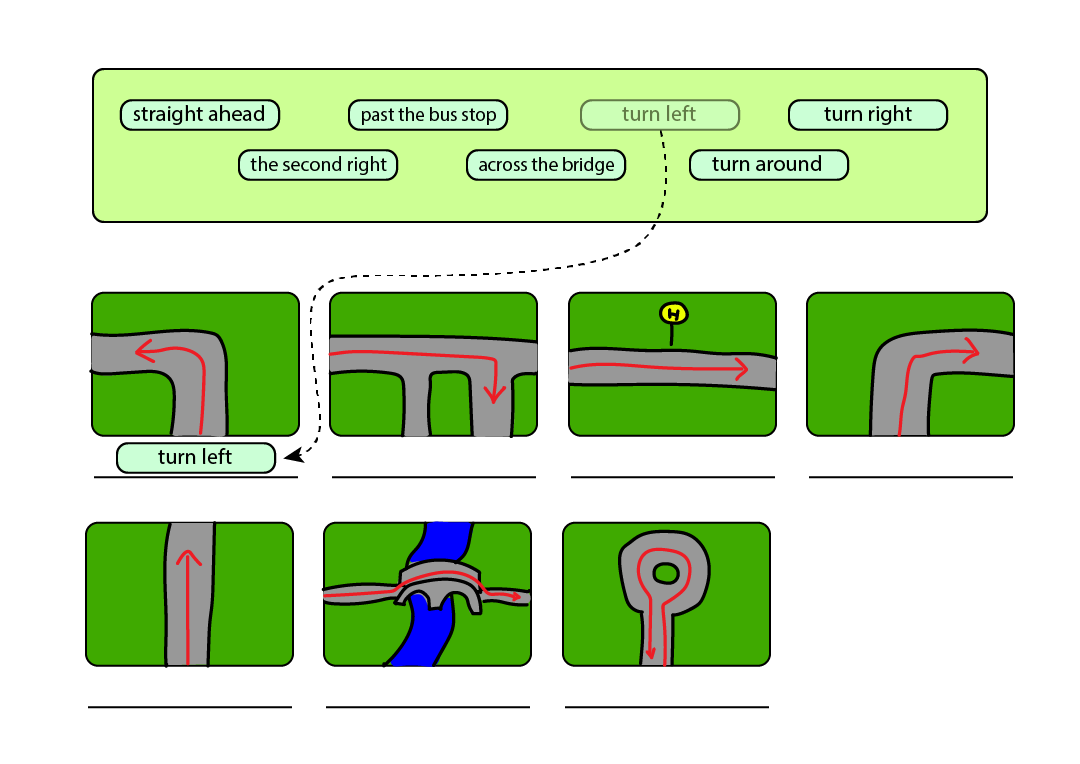
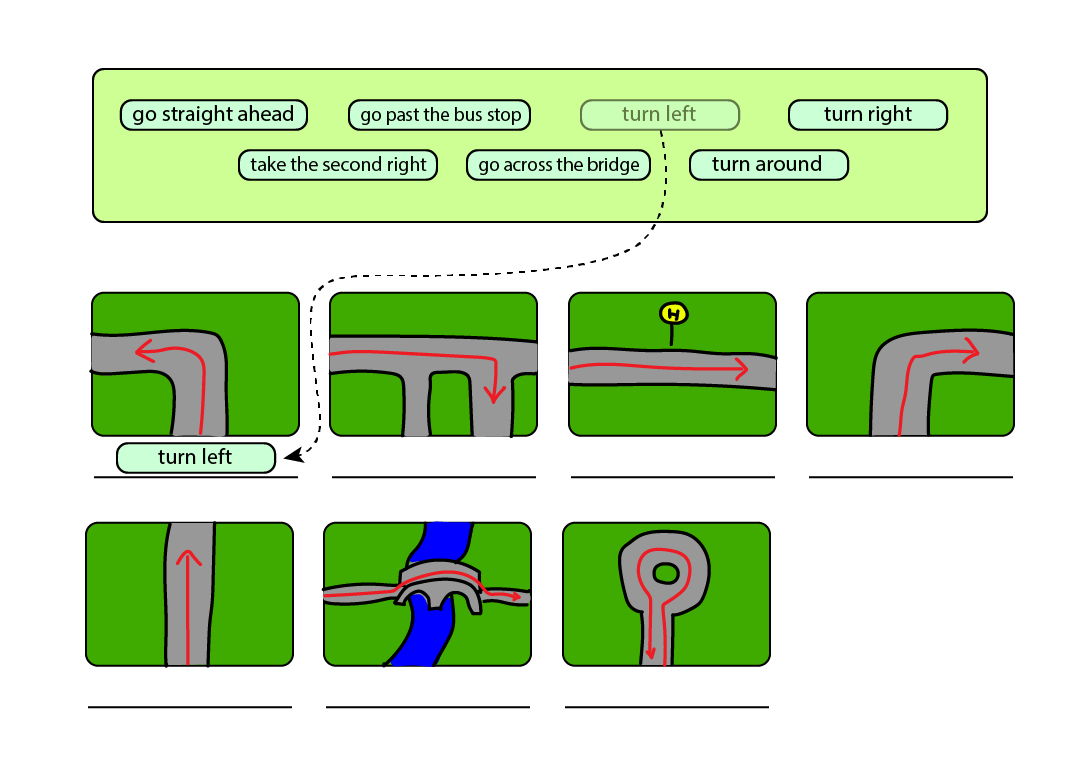
text edits

Changed region(s): [[0.2444, 0.1204, 0.6111, 0.2408], [0.1222, 0.1204, 0.3056, 0.1806]]

diff --git a/index.html b/index.html
@@ -7,11 +7,12 @@
 
 <body>
     <h1>Giving Directions</h1>
+    <p class="demotext">(work in progress)</p>
 
     <h2 id="titlePartOne">Part 1: Vocabulary</h2>
 
     <div class="textblock">
-        <p>First, practice giving directions with these these drag-and-drop items. <br>
+        <p>First, practice giving directions with these drag-and-drop items. <br>
             Match the text with the pictures.
         </p>
     </div>
@@ -31,13 +32,10 @@
     <h2 id="demo2">Part 2: Co-Op Game</h2>
 
     <div class="textblock">
-        <p>This game is for two players, it is based on two devices. One of you is a tourist, and the other is a local.</p>
-    </div>
-
-    <div class="textblock">
+        <p>This game is for two players, it is played on two devices. One of you is a tourist, and the other is a local. <br>
+        Open the website on both devices and choose a role.</p>
         <p>A tourist and a local meet. The tourist wants to get to a place in the city and the local helps by giving directions. </p>
-    </div>
-   
+    </div>   
 
 <h3>Instructions</h3>
 <div class="instructions instructions1">
@@ -55,10 +53,10 @@
     <p id="coopInstructions">• Choose the same map as your partner. <br>
     • Choose your role: Local or Tourist. <br>
     • Choose the same starting point as your partner. <br>
-    • Local: draw a path on the map by selecting intersections to visit. <br>
-    • Tourist: wait for your partner to draw a path. <br>
-    • Local: give your partner instructions where to go <br>
-    • Tourist: follow your partner's instructions by selecting intersections to visit <br>
+    • Tourist: What place do you want to find? Tell your partner. <br>
+    • Local: Select the intersections on the map to draw a path to the place that<br> &nbsp; &nbsp; the tourist wants to find. <br>
+    • Local: Give the tourist instructions where to go. <br>
+    • Tourist: Follow the local's instructions by selecting intersections to visit. <br>
     • Finally: Compare your paths and see how you did!</p>
 
     <div class="demoBox" id="game2">

diff --git a/stylesheets/style.css b/stylesheets/style.css
@@ -71,6 +71,7 @@ p{
     border:1px solid black;
     font-size:12pt;
     position:absolute;
+    right:-10rem;
     z-index:1;
     padding:1rem;
     width:max-content;
